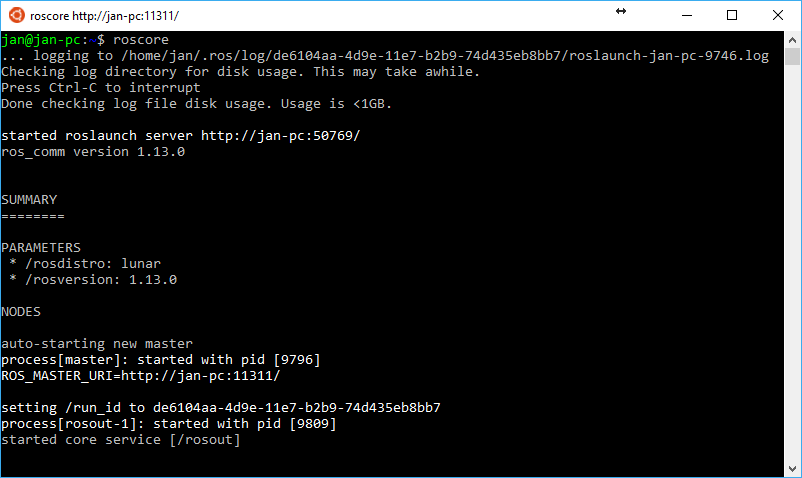
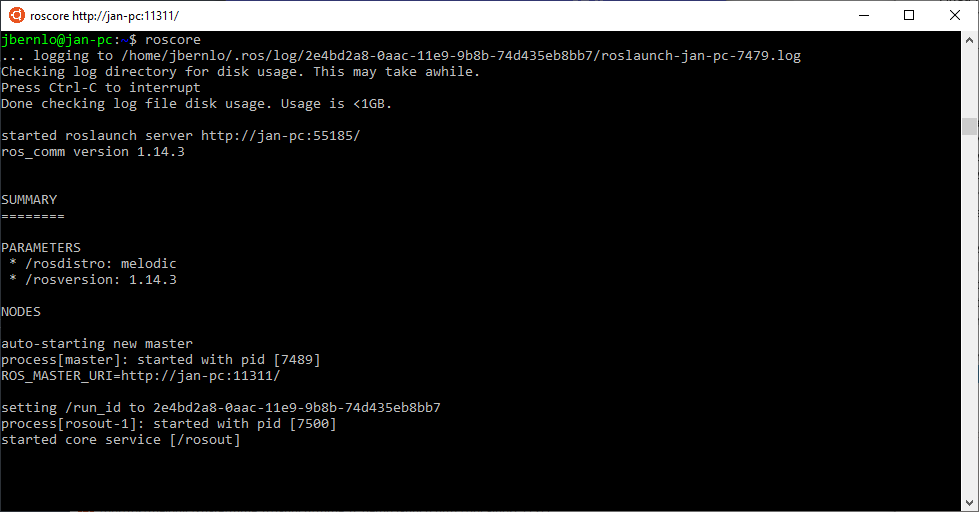
Update for melodic

Changed region(s): [[0.0, 0.0, 1.0, 1.0], [0.0, 0.3808, 0.5611, 0.9372], [0.7481, 0.0, 0.7793, 0.0293]]

diff --git a/_posts/2017-06-10-ros-windows.md b/_posts/2017-06-10-ros-windows.md
@@ -6,15 +6,17 @@ tags: [wsl, windows10, ros]
 ---
 {% include JB/setup %}
 
-The [Windows Subsystem for Linux (WSL)](https://msdn.microsoft.com/de-de/commandline/wsl/faq) is a compatibility layer which allows to run a whole bunch of linux binaries natively on Windows 10. With the advent of the Windows 10 Creators Update in March 2017, the WSL was heavily updated and now is able to run ROS lunar. ~~There is just one caveat: In the currently released version (1.13) of [ros_comm](https://github.com/ros/ros_comm) there is a [bug](https://github.com/ros/ros_comm/pull/1050) which needs manual patching until the fix is included in an official release.~~ Since release 1.13.1 of the [ros_comm](https://github.com/ros/ros_comm) package, a vanilla installation of ros runs fine on WSL and no further patching is needed.
+The [Windows Subsystem for Linux (WSL)](https://msdn.microsoft.com/de-de/commandline/wsl/faq) is a compatibility layer which allows to run a whole bunch of linux binaries natively on Windows 10. With the advent of the Windows 10 Creators Update in March 2017, the WSL was heavily updated and now is able to run ROS lunar and melodic.
 
 In this blogpost I will show you how to install WSL and setup ROS to get started.
 
-## Update to Windows 10 Creators update
+## Update Windows 10
 
-The Creators update of Windows 10 needs to be installed for ROS to work. If you are in doubt, which version is installed go to Settings -> System -> About and check that you have at least `Version 1703`
+A recent version of Windows 10 needs to be installed for ROS to work. If you are in doubt, which version is installed go to Settings -> System -> About and check that you have at least `Version 1703`
 
 ![](/assets/images/RosOnWsl/WinVersion.png)
+
+but `Version 1809` is recommended for optimal performance.
 
 If you need to update Windows, got to Windows Update and follow the instructions.
 
@@ -22,18 +24,18 @@ If you need to update Windows, got to Windows Update and follow the instructions
 
 ## Install the WSL and Bash on Windows
 
-To install the Windows Subsystem for Linux and Bash on Windows, follow [this](https://msdn.microsoft.com/de-de/commandline/wsl/install_guide) guide.
+To install the Windows Subsystem for Linux and Bash on Windows, follow [this](https://docs.microsoft.com/en-us/windows/wsl/install-win10) guide.
 
-In case you have used the WSL before applying the creators update, you may still have the trusty version (14.04) of Ubuntu for Windows installed. However, you need to upgrade to xenial (16.04).
+In case you have used the WSL before applying the creators update, you may still have the trusty version (14.04) or the xenial version (16.04). However, to install ros melodic, you need ubuntu bionic 18.04.
 To check which version is actually installed, start an instance of bash and run `lsb_release -a`. The output should look like
 
 ```
 $ lsb_release -a
 No LSB modules are available.
 Distributor ID: Ubuntu
-Description:    Ubuntu 16.04.2 LTS
-Release:        16.04
-Codename:       xenial
+Description:    Ubuntu 18.04.1 LTS
+Release:        18.04
+Codename:       bionic
 ```
 
 If it shows an older version, you have to uninstall and then reinstall bash on windows from the windows command line as follows **Warning: This will delete all of your existing data in WSL. Make a backup first**
@@ -43,19 +45,19 @@ If it shows an older version, you have to uninstall and then reinstall bash on w
 
 ## Install ROS
 
-Since WSL is based on ubuntu, you can follow the official [ros installation guide for ubuntu](http://wiki.ros.org/lunar/Installation/Ubuntu) by the word.
+Since WSL is based on ubuntu, you can follow the official [ros installation guide for ubuntu](http://wiki.ros.org/melodic/Installation/Ubuntu) by the word.
 
 
     sudo sh -c 'echo "deb http://packages.ros.org/ros/ubuntu $(lsb_release -sc) main" > /etc/apt/sources.list.d/ros-latest.list'
     sudo apt-key adv --keyserver hkp://ha.pool.sks-keyservers.net:80 --recv-key 421C365BD9FF1F717815A3895523BAEEB01FA116
-    sudo apt-get update
-    sudo apt-get install -y ros-lunar-desktop-full
+    sudo apt update
+    sudo apt install -y ros-melodic-desktop-full
     sudo rosdep init
     rosdep update
 
-If you want to source ros lunar automatically for ever bash session, then
+If you want to source ros melodic automatically for ever bash session, then
 
-    echo "source /opt/ros/lunar/setup.bash" >> ~/.bashrc
+    echo "source /opt/ros/melodic/setup.bash" >> ~/.bashrc
     source ~/.bashrc
 
 ## Run a simple test
@@ -70,13 +72,14 @@ If you want to source ros lunar automatically for ever bash session, then
    import rospy
    from std_msgs.msg import String
    
-   pub = rospy.Publisher('chatter', String, queue_size=None)
-   rospy.init_node('demo_pub_node')
-   r = rospy.Rate(1) # 10hz
+   pub = rospy.Publisher('chatter', String, queue_size=10)
+   rospy.init_node('talker', anonymous=True)
+   rate = rospy.Rate(10) # 10hz
    while not rospy.is_shutdown():
-      pub.publish("hello world")
-      print('sending data...')
-      r.sleep()
+      hello_str = "hello world %s" % rospy.get_time()
+      rospy.loginfo(hello_str)
+      pub.publish(hello_str)
+      rate.sleep()
    ```
 
 4. Run the publisher `python publish.py`
@@ -84,65 +87,64 @@ If you want to source ros lunar automatically for ever bash session, then
    ![](/assets/images/RosOnWsl/publish.PNG)
 
 5. Start a third bash prompt
-6. Crate a new file `subscribe.py` with the contents
+6. Create a new file `subscribe.py` with the contents
    ``` python
    #!/usr/bin/env python
    import rospy
    from std_msgs.msg import String
-   
+
    def callback(data):
-       rospy.loginfo("I heard %s",data.data)
-   
+       rospy.loginfo(rospy.get_caller_id() + "I heard %s", data.data)
+
    def listener():
-       rospy.init_node('demo_sub_node')
+       rospy.init_node('listener', anonymous=True)
        rospy.Subscriber("chatter", String, callback)
        # spin() simply keeps python from exiting until this node is stopped
        rospy.spin()
-   
-   listener()
+
+   if __name__ == '__main__':
+       listener()
    ```  
 7. Run the subscriber `python subscribe.py`
 
    ![](/assets/images/RosOnWsl/subscribe.PNG)
 
-## Install Xming
+## Install VcXsrv
 
-To run applications with graphical output, you need to install an X Server on Windows. For me, [Xming](http://www.straightrunning.com/XmingNotes/) did a great job.
+To run applications with graphical output, you need to install an X Server on Windows. To me, [VcXsrv](https://sourceforge.net/projects/vcxsrv/) now works best.
 
-After you have installed Xming, you also need to configure WSL to use it. To do so modify you .bashrc as follows
+After you have installed VcXsrv, you also need to configure WSL to use it. To do so modify you .bashrc as follows
 
     echo "export DISPLAY=:0" >> ~/.bashrc
     source ~/.bashrc
 
-Finally launch the Xming application from the start menu.
+Finally, launch VcXsrv from the start menu. You can keep all default settings except `Native opengl` which needs to be  __unchecked__. Otherwise applications such as rviz do not run as expected.
+
+![](/assets/images/RosOnWsl/NoNativeOpenGl.PNG)
 
 ## Run turtle_sim
 
 The popular [turtle_sim tutorial](http://wiki.ros.org/ROS/Tutorials/UnderstandingTopics) works fine WSL as well.
 
 1. Make sure you have an X Server installed, configured and running as described above.
-2. Start a new bash prompt and run `roscore`.
-3. Start a second bash prompt and run `rosrun turtlesim turtle_teleop_key`.
-4. Start a third bash prompt and run `rosrun turtlesim turtlesim_node`.
-   You can control the turtle by using the arrow keys by going back to the second prompt.
+2. Start a new bash prompt and run
+
+``` bash
+    roslaunch turtle_tf turtle_tf_demo.launch
+```
+
+  You can control the turtle by using the arrow keys by going back to the second prompt.
 
    ![](/assets/images/RosOnWsl/turtle1.PNG)
 
+3. Start a second bash prompt and run
+
+``` bash
+    rosrun rviz rviz -d `rospack find turtle_tf`/rviz/turtle_rviz.rviz
+```
+
+   ![](/assets/images/RosOnWsl/turtle2.PNG)
+
 ## OpenGL indirection
 
-Some places recommend to force indirect rendering using `export LIBGL_ALWAYS_INDIRECT=1` for better OpenGL performance on WSL. However, with the version of Xming I tested, it is not possible to launch `rviz` when this indirection is active, thus my recommendation is to not use OpenGL indirection for the time being.#
-
-## D-Bus machine-id missing
-
-On some installations I have seen the error
-
-```
-D-Bus library appears to be incorrectly set up; failed to read machine uuid: UUID file '/etc/machine-id' should contain a hex string of length 32, not length 0, with no other text
-```
-
-To fix it, run 
-```
-sudo dbus-uuidgen --ensure
-```
-
-Also restart any running roscore afterwards.
+Some places recommend to force indirect rendering using `export LIBGL_ALWAYS_INDIRECT=1` for better OpenGL performance on WSL. However, with the versions of VcXsrv and Xming I tested, it is not possible to launch `rviz` when this indirection is active, thus my recommendation is to not use OpenGL indirection for the time being.
